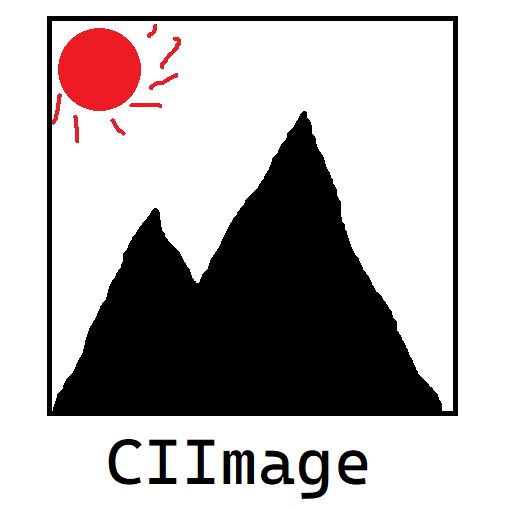
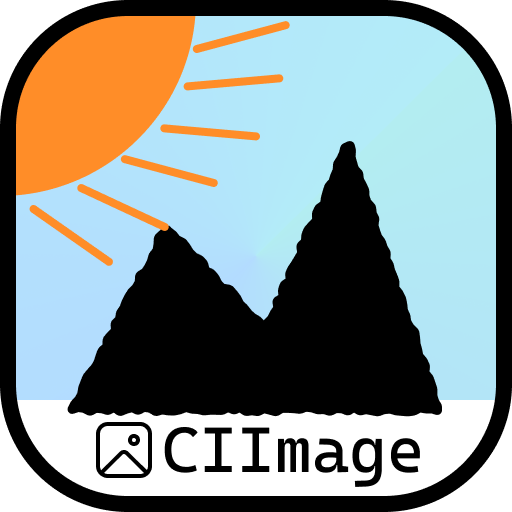
feat: 更新图标

diff --git a/README.md b/README.md
@@ -1,6 +1,12 @@
+<div align="center">
+
+<img src="./CIImage/icon.png" width="128" height="128">
+
 # CIImage
 
 > 为 ClassIsland 添加了图片组件
+
+</div>
 
 ### 本插件已完成 ClassIsland 2.2 的适配，enjoy it
 
